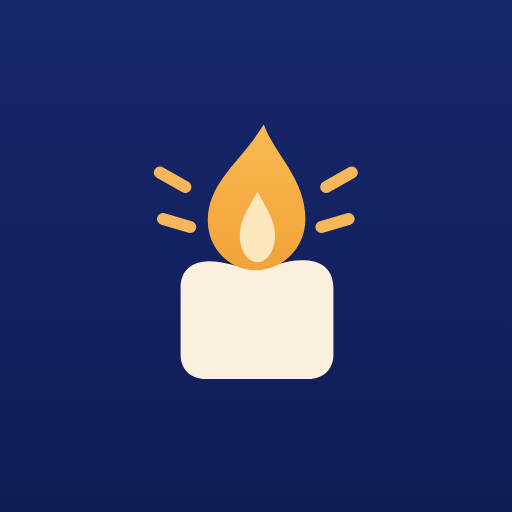
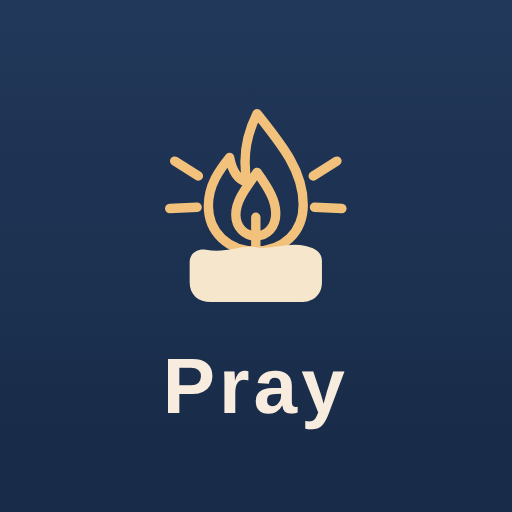
홈 시안17: 모서리 각지게, 설치 아이콘 Pray, 앱 안 아이콘 브라운
Claude-Session: https://claude.ai/code/session_0132g5UJm8uz5i24szpe95AM

Changed region(s): [[0.2812, 0.2188, 0.7188, 0.8438]]

diff --git a/app.html b/app.html
@@ -28,7 +28,7 @@ button { cursor: pointer; -webkit-tap-highlight-color: transparent; }
 /* top bar */
 .topbar { position: sticky; top: env(safe-area-inset-top, 0px); z-index: 5; background: var(--bg); padding-block: 14px 12px; margin-inline: -16px; padding-inline: 16px; display: flex; align-items: center; justify-content: space-between; gap: 8px; }
 .brand { min-width: 0; display: flex; align-items: center; gap: 9px; background: none; border: 0; padding: 0; text-align: left; }
-.brand .mark { flex: none; width: 38px; height: 38px; border-radius: 10px; background: linear-gradient(#17276C, #0F1D55); display: grid; place-items: center; box-shadow: 0 3px 10px rgba(23, 32, 74, .25); }
+.brand .mark { flex: none; width: 38px; height: 38px; border-radius: 10px; background: #F1E2D3; display: grid; place-items: center; box-shadow: 0 2px 8px rgba(120, 70, 40, .16); }
 .brand .mark svg { width: 38px; height: 38px; }
 .brand-txt { min-width: 0; display: flex; flex-direction: column; line-height: 1.25; }
 .not-home .brand-sub { display: none; }
@@ -478,7 +478,7 @@ textarea.paper { width: 100%; min-height: 260px; resize: vertical; font-size: 16
 .join-bar { height: 5px; border-radius: 3px; background: var(--line); overflow: hidden; margin-top: -4px; }
 .join-bar i { display: block; height: 100%; background: linear-gradient(90deg, #E6A92E, #C98A12); transition: width .3s; }
 .join-hero { text-align: center; padding: 26px 0 8px; }
-.join-hero .mark { display: inline-grid; place-items: center; width: 64px; height: 64px; border-radius: 20px; background: linear-gradient(#17276C, #0F1D55); box-shadow: 0 8px 22px rgba(23, 32, 74, .3); }
+.join-hero .mark { display: inline-grid; place-items: center; width: 64px; height: 64px; border-radius: 20px; background: #F1E2D3; box-shadow: 0 8px 22px rgba(120, 70, 40, .18); }
 .join-hero .mark svg { width: 64px; height: 64px; }
 .join-hero h1 { font-family: var(--font-display); font-size: 23px; color: var(--navy); margin-top: 14px; }
 .join-hero p { color: var(--ink-2); margin: 6px 0 0; }
@@ -873,9 +873,9 @@ body.qd-open .fab:not(.closet) { opacity: 0; pointer-events: none; }
 body.is-home { background: #FFFFFF; }
 body.is-home::before { position: absolute; inset: 0 0 auto 0; height: var(--home-img-h, 60vh); background-position: center top; }
 .hmin .hb2 { position: relative; }
-.hmin .hb2::before { content: ""; position: absolute; z-index: -1; left: -16px; right: -16px; top: -22px; height: 44px; border-radius: 24px 24px 0 0; background: #FFFFFF; }
+.hmin .hb2::before { content: ""; position: absolute; z-index: -1; left: -16px; right: -16px; top: -22px; height: 44px; border-radius: 0; background: #FFFFFF; }
 .hmin { position: relative; z-index: 0; }
-.hmin .hb2-c, .hmin .hbn { box-shadow: 0 4px 14px rgba(60, 50, 40, .12); }
+.hmin .hb2-c, .hmin .hbn { border-radius: 0; box-shadow: 0 4px 14px rgba(60, 50, 40, .12); }
 .hmin .htk2-c { background: #F4F0EC; border: 1px solid #E6DFD8; -webkit-backdrop-filter: none; backdrop-filter: none; box-shadow: none; }
 body.is-home .qbtn { background: #FFFFFF; border-color: #E6E1DC; box-shadow: 0 4px 12px rgba(20, 30, 60, .14); }
 
@@ -898,7 +898,7 @@ body.is-home .qbtn { background: #FFFFFF; border-color: #E6E1DC; box-shadow: 0 4
 <div class="app">
   <header class="topbar">
     <button class="nav-back" id="navBack" data-act="nav-back" aria-label="이전으로" hidden><svg viewBox="0 0 24 24" fill="none" stroke="currentColor" stroke-width="2.4" stroke-linecap="round" stroke-linejoin="round"><path d="M15 5l-7 7 7 7"/></svg></button>
-    <button class="brand" data-tab="home" aria-label="홈으로"><span class="mark" aria-hidden="true"><svg viewBox="0 0 512 512"><defs><linearGradient id="nf" x1="0" y1="0" x2="0" y2="1"><stop offset="0" stop-color="#F8BA52"/><stop offset="1" stop-color="#F2A238"/></linearGradient></defs><g stroke="#F4B85A" stroke-width="15" stroke-linecap="round"><path d="M136 152l32 18M140 210l34 10M376 152l-32 18M372 210l-34 10"/></g><path d="M162 296c0-20 12-32 32-33 24-1 38 9 62 8 26-1 40-12 66-9 19 2 31 14 31 34v84c0 18-13 30-31 30H193c-18 0-31-12-31-30z" fill="#FBF0DE"/><path d="M266 92c14 38 52 68 52 118 0 36-28 64-62 64s-60-28-60-62c0-48 40-72 70-120z" fill="url(#nf)"/><path d="M258 176c12 22 22 36 22 54 0 20-10 34-22 34s-22-14-22-34c0-18 10-32 22-54z" fill="#FCE6BC"/></svg></span><span class="brand-txt"><span class="brand-name">합력하여 <span class="sun">선</span>을 이루는 기도</span><small class="brand-sub">얼굴을 몰라도, 서로를 위해 기도하는 곳</small></span></button>
+    <button class="brand" data-tab="home" aria-label="홈으로"><span class="mark" aria-hidden="true"><svg viewBox="0 0 512 512"><g transform="translate(256 250) scale(.84) translate(-256 -236)"><g fill="none" stroke="#B05A3C" stroke-width="16" stroke-linecap="round" stroke-linejoin="round"><path d="M126 150l38 24M118 226l44-2M386 150l-38 24M394 226l-44-2"/><path d="M258 74c40 50 74 92 74 146 0 44-32 74-76 74s-76-30-76-72c0-34 18-58 34-78 4 22 14 36 28 40-8-40 0-78 16-110z"/><path d="M258 168c20 28 30 46 30 66 0 22-14 36-32 36s-32-14-32-34c0-22 14-40 34-68z"/><path d="M256 240v54"/></g><path d="M150 312c0-14 12-22 26-20 34 6 54-8 80-4 28 4 50-8 80-2 14 3 26 10 26 24v34c0 20-14 32-34 32H184c-20 0-34-12-34-32z" fill="#B05A3C"/></g></svg></span><span class="brand-txt"><span class="brand-name">합력하여 <span class="sun">선</span>을 이루는 기도</span><small class="brand-sub">얼굴을 몰라도, 서로를 위해 기도하는 곳</small></span></button>
     <div class="top-actions">
       <button class="icon-btn bell" data-act="notices" aria-label="공지사항"><svg viewBox="0 0 24 24" fill="none" stroke="currentColor" stroke-width="1.7" stroke-linecap="round" stroke-linejoin="round"><path d="M6 16V11a6 6 0 0 1 12 0v5l1.5 2h-15z"/><path d="M10 20.5a2 2 0 0 0 4 0"/></svg><i class="ndot" id="bellDot" hidden></i></button>
       <button class="icon-btn" data-tab="me" aria-label="내 정보"><svg viewBox="0 0 24 24" fill="none" stroke="currentColor" stroke-width="1.7" stroke-linecap="round"><circle cx="12" cy="8" r="5.5"/><path d="M4.5 21c.8-4 3.8-6 7.5-6s6.7 2 7.5 6"/></svg></button>

diff --git a/index.html b/index.html
@@ -34,7 +34,7 @@ button { cursor: pointer; -webkit-tap-highlight-color: transparent; }
 /* top bar */
 .topbar { position: sticky; top: env(safe-area-inset-top, 0px); z-index: 5; background: var(--bg); padding-block: 14px 12px; margin-inline: -16px; padding-inline: 16px; display: flex; align-items: center; justify-content: space-between; gap: 8px; }
 .brand { min-width: 0; display: flex; align-items: center; gap: 9px; background: none; border: 0; padding: 0; text-align: left; }
-.brand .mark { flex: none; width: 38px; height: 38px; border-radius: 10px; background: linear-gradient(#17276C, #0F1D55); display: grid; place-items: center; box-shadow: 0 3px 10px rgba(23, 32, 74, .25); }
+.brand .mark { flex: none; width: 38px; height: 38px; border-radius: 10px; background: #F1E2D3; display: grid; place-items: center; box-shadow: 0 2px 8px rgba(120, 70, 40, .16); }
 .brand .mark svg { width: 38px; height: 38px; }
 .brand-txt { min-width: 0; display: flex; flex-direction: column; line-height: 1.25; }
 .not-home .brand-sub { display: none; }
@@ -484,7 +484,7 @@ textarea.paper { width: 100%; min-height: 260px; resize: vertical; font-size: 16
 .join-bar { height: 5px; border-radius: 3px; background: var(--line); overflow: hidden; margin-top: -4px; }
 .join-bar i { display: block; height: 100%; background: linear-gradient(90deg, #E6A92E, #C98A12); transition: width .3s; }
 .join-hero { text-align: center; padding: 26px 0 8px; }
-.join-hero .mark { display: inline-grid; place-items: center; width: 64px; height: 64px; border-radius: 20px; background: linear-gradient(#17276C, #0F1D55); box-shadow: 0 8px 22px rgba(23, 32, 74, .3); }
+.join-hero .mark { display: inline-grid; place-items: center; width: 64px; height: 64px; border-radius: 20px; background: #F1E2D3; box-shadow: 0 8px 22px rgba(120, 70, 40, .18); }
 .join-hero .mark svg { width: 64px; height: 64px; }
 .join-hero h1 { font-family: var(--font-display); font-size: 23px; color: var(--navy); margin-top: 14px; }
 .join-hero p { color: var(--ink-2); margin: 6px 0 0; }
@@ -879,9 +879,9 @@ body.qd-open .fab:not(.closet) { opacity: 0; pointer-events: none; }
 body.is-home { background: #FFFFFF; }
 body.is-home::before { position: absolute; inset: 0 0 auto 0; height: var(--home-img-h, 60vh); background-position: center top; }
 .hmin .hb2 { position: relative; }
-.hmin .hb2::before { content: ""; position: absolute; z-index: -1; left: -16px; right: -16px; top: -22px; height: 44px; border-radius: 24px 24px 0 0; background: #FFFFFF; }
+.hmin .hb2::before { content: ""; position: absolute; z-index: -1; left: -16px; right: -16px; top: -22px; height: 44px; border-radius: 0; background: #FFFFFF; }
 .hmin { position: relative; z-index: 0; }
-.hmin .hb2-c, .hmin .hbn { box-shadow: 0 4px 14px rgba(60, 50, 40, .12); }
+.hmin .hb2-c, .hmin .hbn { border-radius: 0; box-shadow: 0 4px 14px rgba(60, 50, 40, .12); }
 .hmin .htk2-c { background: #F4F0EC; border: 1px solid #E6DFD8; -webkit-backdrop-filter: none; backdrop-filter: none; box-shadow: none; }
 body.is-home .qbtn { background: #FFFFFF; border-color: #E6E1DC; box-shadow: 0 4px 12px rgba(20, 30, 60, .14); }
 
@@ -904,7 +904,7 @@ body.is-home .qbtn { background: #FFFFFF; border-color: #E6E1DC; box-shadow: 0 4
 <div class="app">
   <header class="topbar">
     <button class="nav-back" id="navBack" data-act="nav-back" aria-label="이전으로" hidden><svg viewBox="0 0 24 24" fill="none" stroke="currentColor" stroke-width="2.4" stroke-linecap="round" stroke-linejoin="round"><path d="M15 5l-7 7 7 7"/></svg></button>
-    <button class="brand" data-tab="home" aria-label="홈으로"><span class="mark" aria-hidden="true"><svg viewBox="0 0 512 512"><defs><linearGradient id="nf" x1="0" y1="0" x2="0" y2="1"><stop offset="0" stop-color="#F8BA52"/><stop offset="1" stop-color="#F2A238"/></linearGradient></defs><g stroke="#F4B85A" stroke-width="15" stroke-linecap="round"><path d="M136 152l32 18M140 210l34 10M376 152l-32 18M372 210l-34 10"/></g><path d="M162 296c0-20 12-32 32-33 24-1 38 9 62 8 26-1 40-12 66-9 19 2 31 14 31 34v84c0 18-13 30-31 30H193c-18 0-31-12-31-30z" fill="#FBF0DE"/><path d="M266 92c14 38 52 68 52 118 0 36-28 64-62 64s-60-28-60-62c0-48 40-72 70-120z" fill="url(#nf)"/><path d="M258 176c12 22 22 36 22 54 0 20-10 34-22 34s-22-14-22-34c0-18 10-32 22-54z" fill="#FCE6BC"/></svg></span><span class="brand-txt"><span class="brand-name">합력하여 <span class="sun">선</span>을 이루는 기도</span><small class="brand-sub">얼굴을 몰라도, 서로를 위해 기도하는 곳</small></span></button>
+    <button class="brand" data-tab="home" aria-label="홈으로"><span class="mark" aria-hidden="true"><svg viewBox="0 0 512 512"><g transform="translate(256 250) scale(.84) translate(-256 -236)"><g fill="none" stroke="#B05A3C" stroke-width="16" stroke-linecap="round" stroke-linejoin="round"><path d="M126 150l38 24M118 226l44-2M386 150l-38 24M394 226l-44-2"/><path d="M258 74c40 50 74 92 74 146 0 44-32 74-76 74s-76-30-76-72c0-34 18-58 34-78 4 22 14 36 28 40-8-40 0-78 16-110z"/><path d="M258 168c20 28 30 46 30 66 0 22-14 36-32 36s-32-14-32-34c0-22 14-40 34-68z"/><path d="M256 240v54"/></g><path d="M150 312c0-14 12-22 26-20 34 6 54-8 80-4 28 4 50-8 80-2 14 3 26 10 26 24v34c0 20-14 32-34 32H184c-20 0-34-12-34-32z" fill="#B05A3C"/></g></svg></span><span class="brand-txt"><span class="brand-name">합력하여 <span class="sun">선</span>을 이루는 기도</span><small class="brand-sub">얼굴을 몰라도, 서로를 위해 기도하는 곳</small></span></button>
     <div class="top-actions">
       <button class="icon-btn bell" data-act="notices" aria-label="공지사항"><svg viewBox="0 0 24 24" fill="none" stroke="currentColor" stroke-width="1.7" stroke-linecap="round" stroke-linejoin="round"><path d="M6 16V11a6 6 0 0 1 12 0v5l1.5 2h-15z"/><path d="M10 20.5a2 2 0 0 0 4 0"/></svg><i class="ndot" id="bellDot" hidden></i></button>
       <button class="icon-btn" data-tab="me" aria-label="내 정보"><svg viewBox="0 0 24 24" fill="none" stroke="currentColor" stroke-width="1.7" stroke-linecap="round"><circle cx="12" cy="8" r="5.5"/><path d="M4.5 21c.8-4 3.8-6 7.5-6s6.7 2 7.5 6"/></svg></button>
